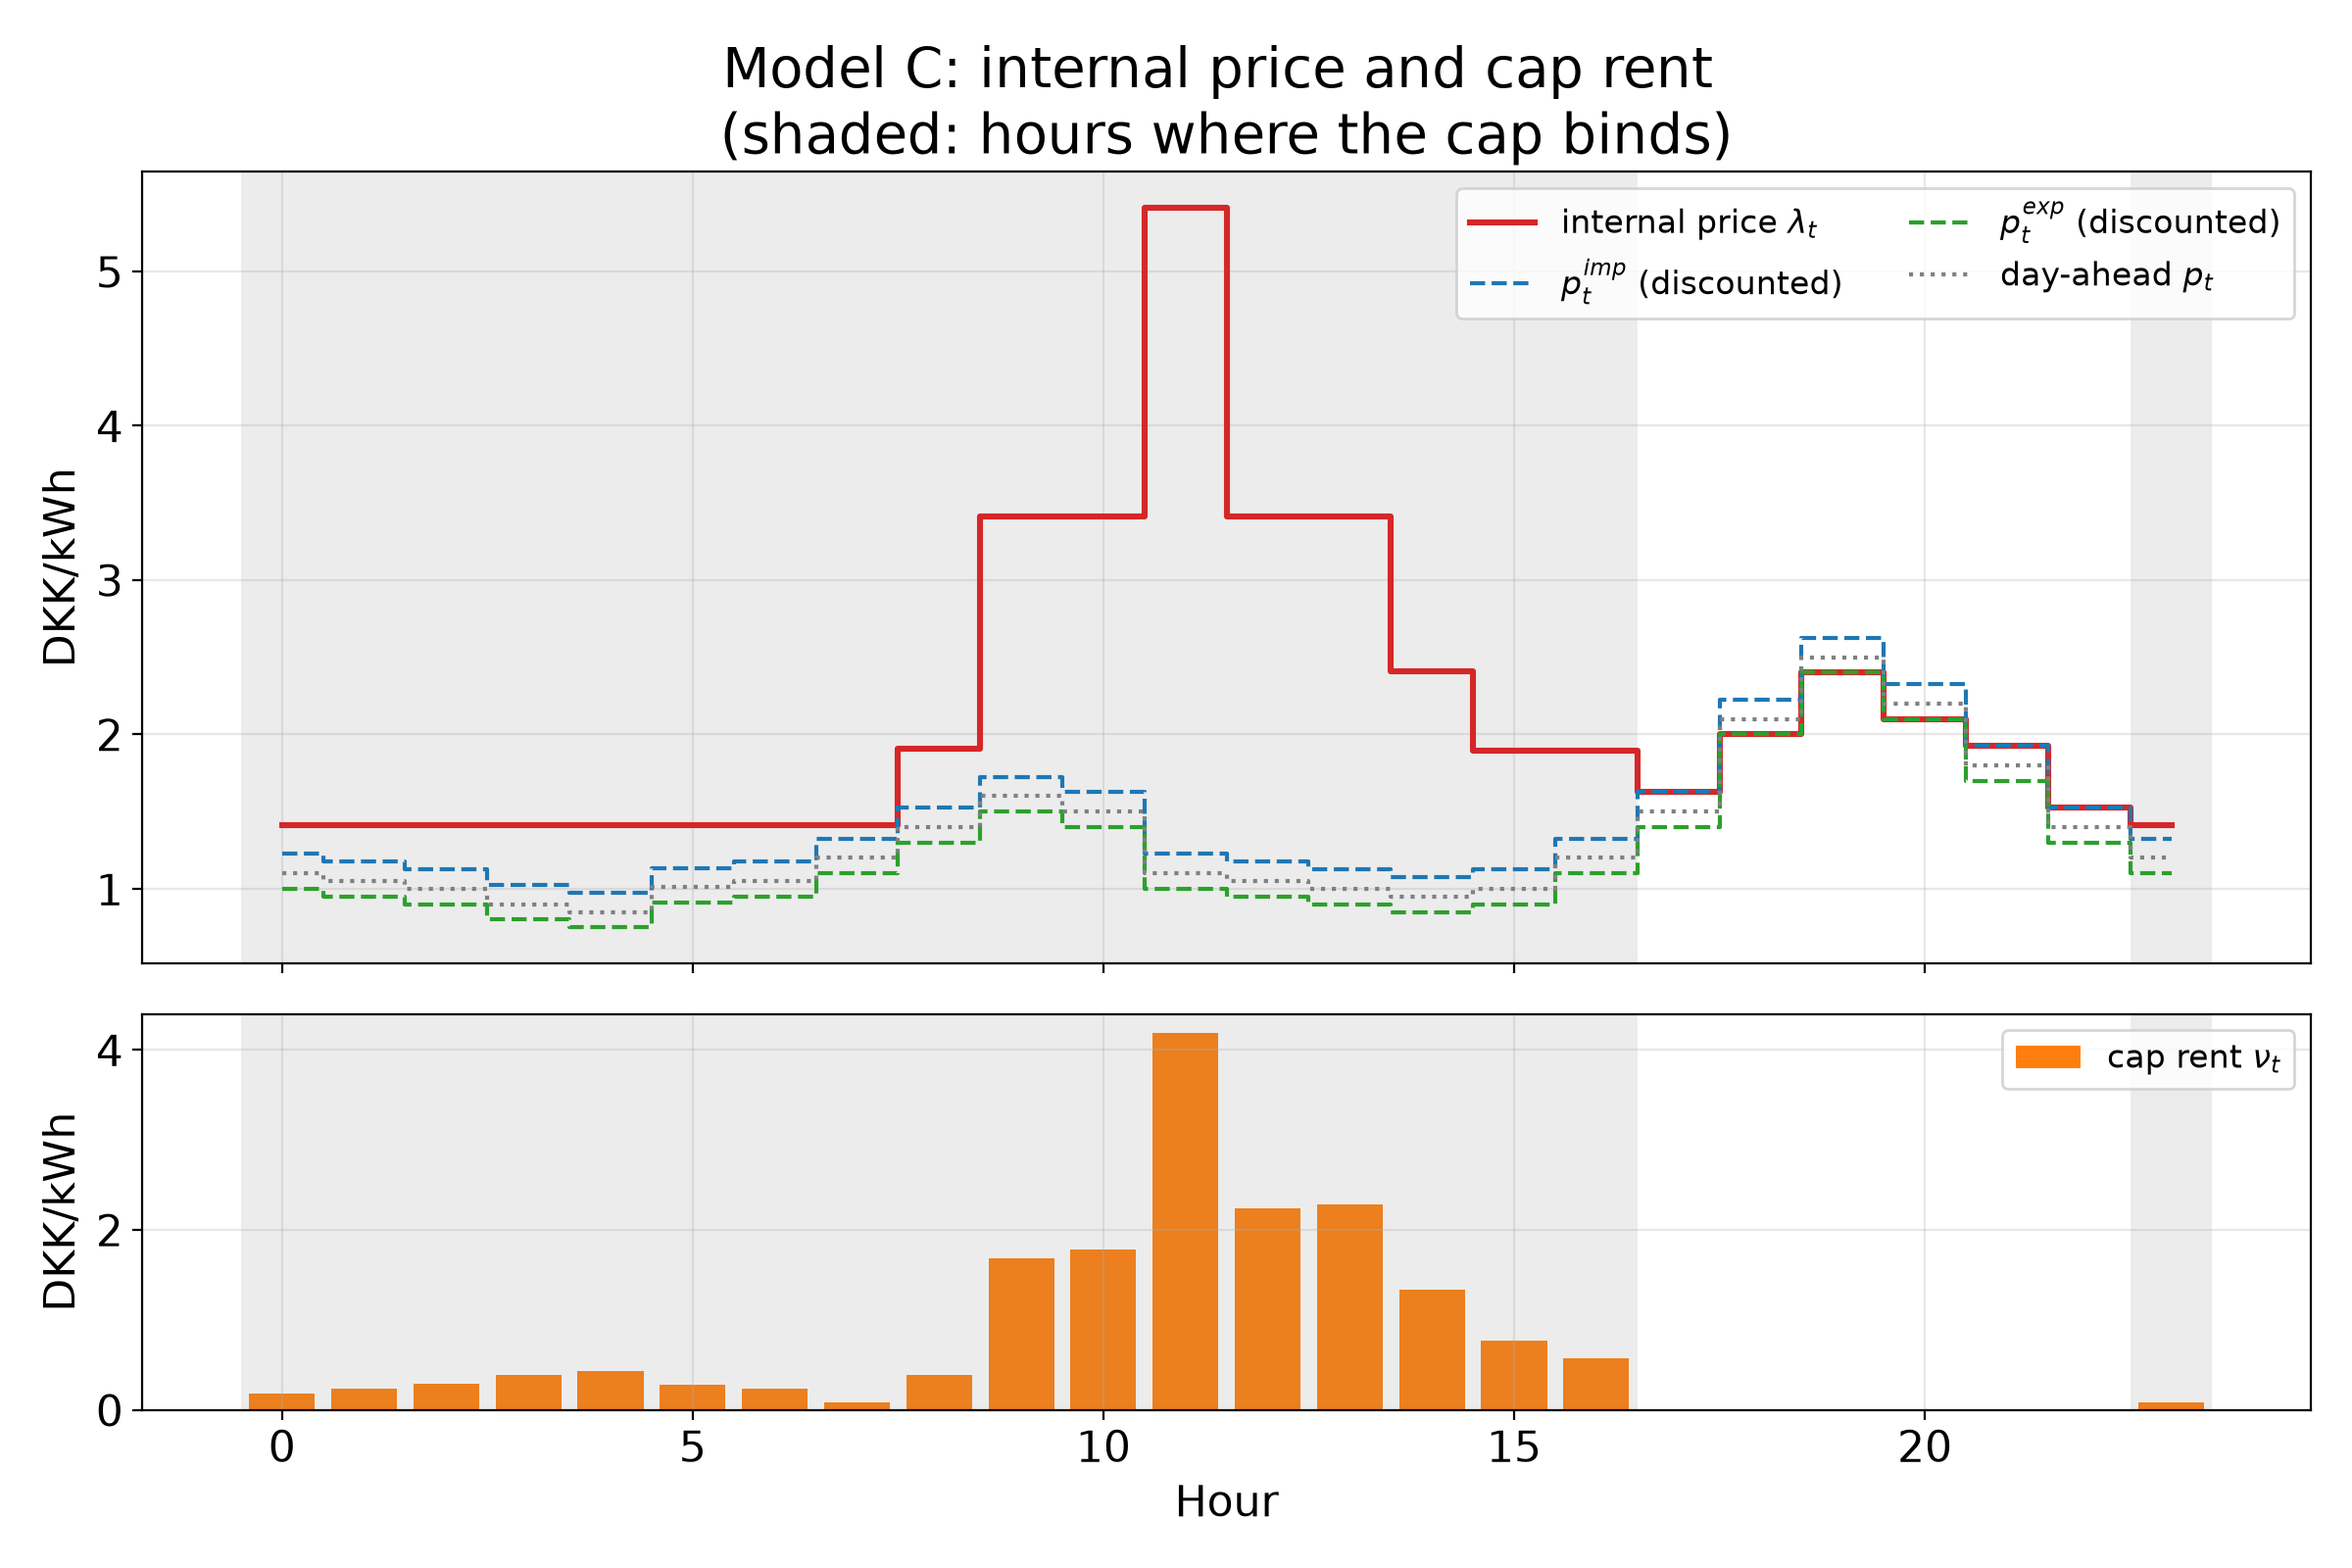
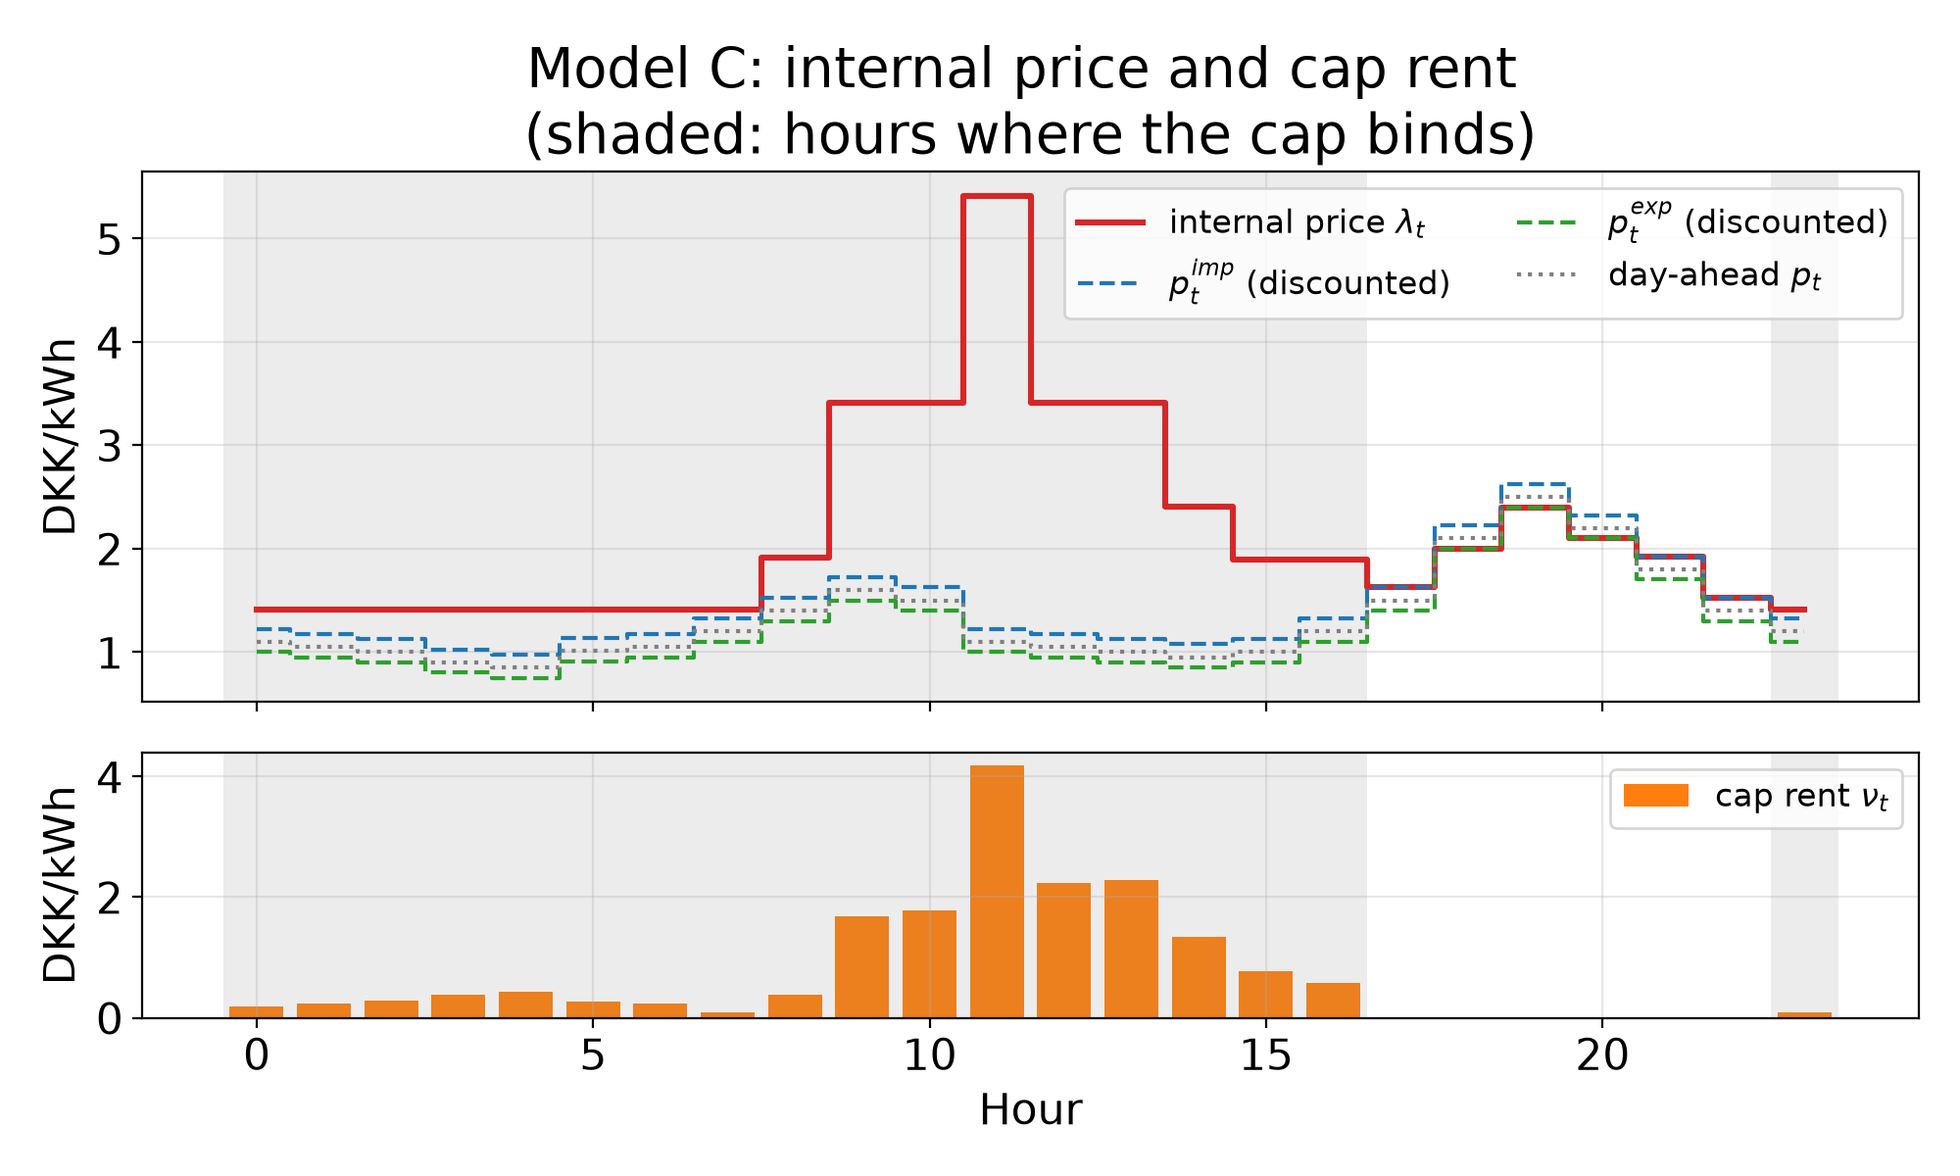
Added final settlement summary for 1.6 analysis

diff --git a/src/Q1_results.py b/src/Q1_results.py
@@ -307,3 +307,81 @@ def plot_duals(hourly, savepath, title_suffix=""):
     fig.tight_layout()
     fig.savefig(savepath/"duals.png", dpi=200)
     return fig
+
+def _appliance_cost(model, i):
+    """Disutility + PV cost of member i (same definition in R, I and C)."""
+    mem = model.community.members[i]
+    cL = mem.linear_disutility if mem.linear_disutility is not None else 0.0
+    dis = cL * sum(model.var["d_+"][i, t].X + model.var["d_-"][i, t].X for t in model.T)
+    pv = mem.pv_marginal_cost * sum(model.var["g"][i, t].X for t in model.T)
+    return dis + pv
+
+
+def member_costs(model_r, model_i, model_c) -> pd.DataFrame:
+    """Total cost J_i of every member in R, I and C, and the benefit of C against R and I."""
+    com = model_c.community
+    T = model_c.T
+    beta = com.contract.tariff_discount_ratio
+    alpha = com.contract.penalty_DKK_per_kWh
+    p = com.energy_price
+
+    rows = []
+    for i in model_c.I:
+        mem = com.members[i]
+
+        # R: full tariffs, no penalty
+        grid_R = sum((p[t] + com.import_tariff) * model_r.var["q_imp"][i, t].X
+                     - (p[t] - com.export_tariff) * model_r.var["q_exp"][i, t].X for t in T)
+        J_R = _appliance_cost(model_r, i) + grid_R
+
+        # I: discounted tariffs on own flows + penalty on own exceedance
+        grid_I = sum((p[t] + (1 - beta) * com.import_tariff) * model_i.var["q_imp"][i, t].X
+                     - (p[t] - (1 - beta) * com.export_tariff) * model_i.var["q_exp"][i, t].X for t in T)
+        penalty_I = alpha * sum(model_i.var["e"][i, t].X for t in T)
+        J_I = _appliance_cost(model_i, i) + grid_I + penalty_I
+
+        # C: the payment is the settlement Pi_i = sum_t lambda_t * q_it
+        Pi_C = model_c.settlement["Pi"][i]
+        J_C = _appliance_cost(model_c, i) + Pi_C
+
+        rows.append({
+            "member": mem.consumer_id, "archetype": mem.archetype,
+            "J_R": J_R, "J_I": J_I, "J_C": J_C,
+            "Pi_C": Pi_C, "penalty_I": penalty_I,
+            "Delta_R": J_R - J_C,      # benefit of the community contract vs no contract
+            "Delta_I": J_I - J_C,      # benefit of the community contract vs individual contracts
+        })
+    return pd.DataFrame(rows)
+
+
+def print_settlement_summary(df, model_r, model_i, model_c, save_path=None):
+    obj_R, obj_I, obj_C = model_r.m.ObjVal, model_i.m.ObjVal, model_c.m.ObjVal
+    B = model_c.settlement["B"]
+    gain_R, gain_I = obj_R - obj_C, obj_I - obj_C
+
+    lines = [
+        "=== Q1 settlement summary (model C vs R and I) ===",
+        f"Community objective [DKK]:  R = {obj_R:.3f}   I = {obj_I:.3f}   C = {obj_C:.3f}",
+        f"Community gain of C vs R:   {gain_R:.3f} DKK ({100 * gain_R / obj_R:.1f} %)",
+        f"Community gain of C vs I:   {gain_I:.3f} DKK ({100 * gain_I / obj_I:.1f} %)",
+        f"Manager budget B = sum(Pi) - C_grid: {B:.3f} DKK  (cap rent, should equal sum(nu*cap) = {model_c.settlement['B_rent']:.3f})",
+        f"Sum of members' benefit vs R:  {df['Delta_R'].sum():.3f} DKK   (= gain - B = {gain_R - B:.3f})",
+        f"Sum of members' benefit vs I:  {df['Delta_I'].sum():.3f} DKK   (= gain - B = {gain_I - B:.3f})",
+        f"Members worse off than under R: {(df['Delta_R'] < -1e-6).sum()} of {len(df)}",
+        f"Members worse off than under I: {(df['Delta_I'] < -1e-6).sum()} of {len(df)}",
+        "",
+        "--- Consistency checks (should all be ~0) ---",
+        f"sum J_R - obj_R       = {df['J_R'].sum() - obj_R:.2e}",
+        f"sum J_I - obj_I       = {df['J_I'].sum() - obj_I:.2e}",
+        f"sum J_C - (obj_C + B) = {df['J_C'].sum() - (obj_C + B):.2e}",
+        "",
+        "--- Benefit by archetype [DKK] (positive = better off in C) ---",
+        df.groupby("archetype")[["Delta_R", "Delta_I"]].sum().round(2).to_string(),
+        "",
+        "--- Per member ---",
+        df[["member", "archetype", "J_R", "J_I", "J_C", "Delta_R", "Delta_I"]].round(2).to_string(index=False),
+    ]
+    text = "\n".join(lines)
+    print("\n" + text)
+    if save_path is not None:
+        save_path.write_text(text, encoding="utf-8")

diff --git a/main.py b/main.py
@@ -19,7 +19,8 @@ from src.data_loader import load_community, list_communities
 from src.Q1_models import ModelI, ModelR, ModelC
 from src.Q1_results import (collect_model_results, plot_hourly_imports_exports, plot_imports_vs_capacity,
                             print_summary_table, plot_Q1_sensitivity_manual,
-                            save_hourly_flows, plot_hourly_flow_difference, plot_duals)
+                            save_hourly_flows, plot_hourly_flow_difference, plot_duals,
+                            member_costs, print_settlement_summary)
 from src.Q2_models import build_pricing_problem, extract_pricing_result
 from src.config import SENSITIVITY_Q1_BETA, SENSITIVITY_Q1, SENSITIVITY_Q1_BETA_PAIR
 
@@ -57,6 +58,7 @@ def main() -> None:
     if args.Q1:
         model_classes = {"I": ModelI, "R": ModelR, "C": ModelC}
         all_results = []
+        models = {}
 
 
         if SENSITIVITY_Q1:
@@ -75,8 +77,7 @@ def main() -> None:
                 print(f"Model {name} did not solve to optimality; status: {model.m.Status}")
                 continue
 
-            if name == "C":
-                model_c = model
+            models[name] = model
 
             all_results.append(collect_model_results(model, f"Model {name}", com))
 
@@ -87,10 +88,17 @@ def main() -> None:
             plot_Q1_sensitivity_manual(RESULTS_DIR / args.community / args.day)
             save_hourly_flows(all_results, save_dir)
 
+            model_c = models.get("C")
             if model_c is not None:   
                 plot_duals(model_c.duals, save_dir)
                 model_c.duals.to_csv(save_dir / "duals_C.csv")
                 print(f"Budget B = {model_c.settlement['B']:.3f} DKK")
+
+            if all(k in models for k in ("R", "I", "C")):
+                table = member_costs(models["R"], models["I"], models["C"])
+                table.to_csv(save_dir / "member_costs.csv", index=False)
+                print_settlement_summary(table, models["R"], models["I"], models["C"],
+                                         save_path=save_dir / "settlement_summary.txt")
 
             # difference plot, only once both beta runs exist
             if SENSITIVITY_Q1:
